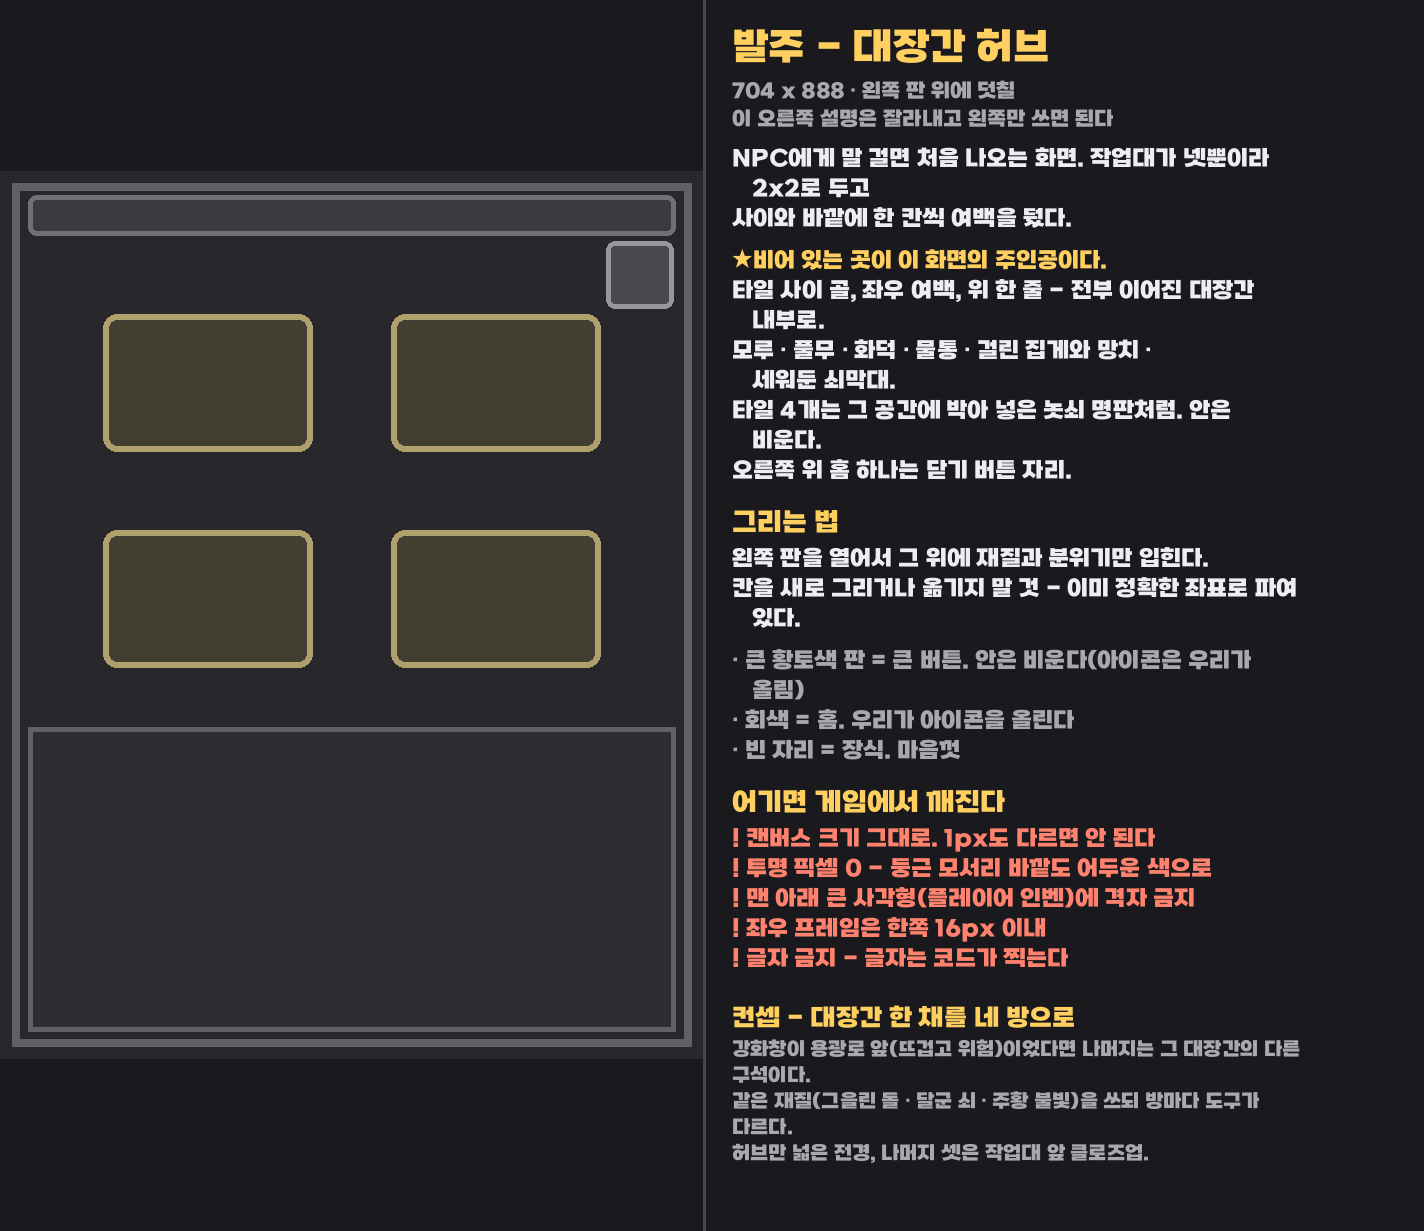
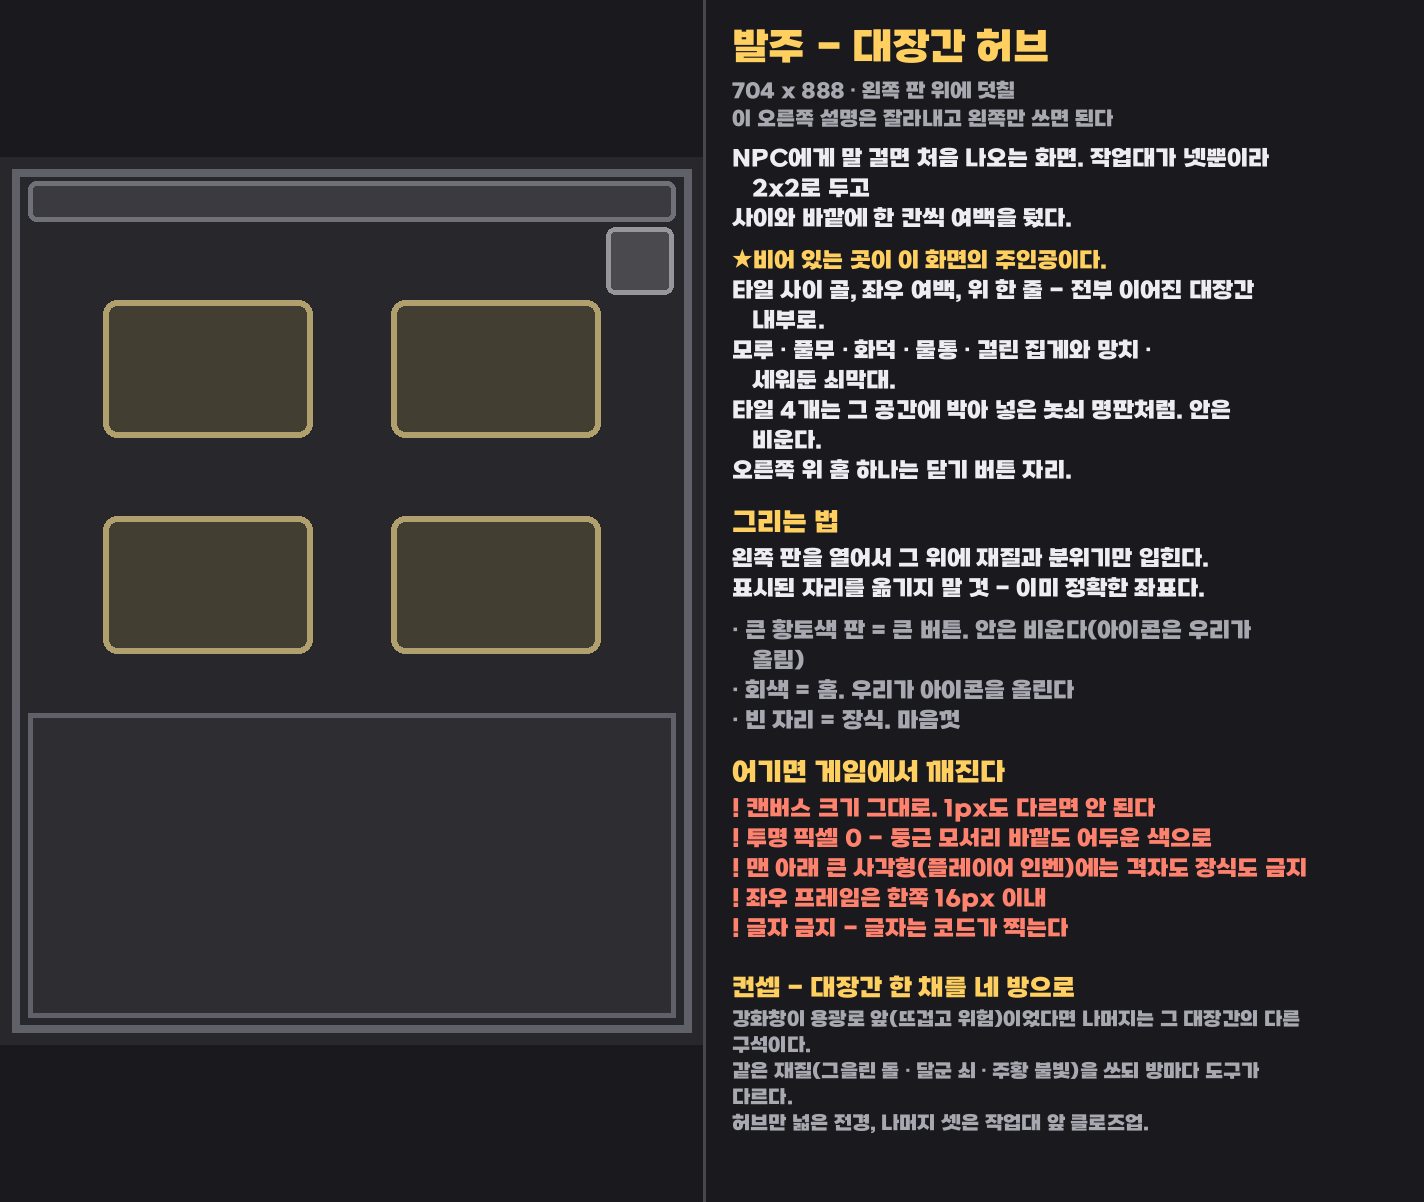
NPC 대화창 발주서 — BetterHud 판이라 규칙이 다르다
상자 창 배경은 제목 글리프라 176 GUI px 안에서 놀지만, 대화창은 BetterHud 가 화면에
직접 얹는 그림이다. 그린 크기가 곧 화면 픽셀이고, 글리프 아틀라스 상한(160) 때문에
110px 짜리 네 조각으로 잘라 쓴다 — 그래서 440 이 폭 상한이고 조각 경계에 큰 장식을
걸치면 이음매가 티 난다. 뼈대판에 그 경계를 점선으로 박았다.

초상화·이름표·대사 좌표는 ops/prod/betterhud/gen_hud_sizes.py 의 DIALOGUE 가 권위다.
여기서는 그 값을 그림으로 보여주기만 한다(두 곳에 적으면 어긋난다).

make_order_sheets: '캔버스 1px도 다르면 안 된다'·'투명 픽셀 0' 은 상자 창 전제라
화면 종류별 주의문(HARD)으로 내렸다 — 대화창은 4배본에 그려도 되고 배경도 투명이 맞다.

diff --git a/gui-forge/make_order_sheets.py b/gui-forge/make_order_sheets.py
@@ -27,24 +27,30 @@ BG, INK, DIM, HI, WARN = (26, 26, 30), (238, 238, 242), (168, 168, 176), (255, 2
 COMMON = [
     ("t", "그리는 법"),
     ("p", "왼쪽 판을 열어서 그 위에 재질과 분위기만 입힌다."),
-    ("p", "칸을 새로 그리거나 옮기지 말 것 - 이미 정확한 좌표로 파여 있다."),
+    ("p", "표시된 자리를 옮기지 말 것 - 이미 정확한 좌표다."),
     ("s", ""),
     ("legend", ""),          # 그 화면에 실제로 있는 역할만 자동으로 채운다
     ("s", ""),
     ("t", "어기면 게임에서 깨진다"),
-    ("w", "캔버스 크기 그대로. 1px도 다르면 안 된다"),
-    ("w", "투명 픽셀 0 - 둥근 모서리 바깥도 어두운 색으로"),
     ("hard", ""),            # 화면 종류별 주의문 (아래 HARD)
     ("w", "글자 금지 - 글자는 코드가 찍는다"),
 ]
 
 # 상자 창(우리가 띄우는 GUI)과 바닐라 인벤토리는 지키는 게 다르다.
 HARD = {
-    "chest": [("w", "맨 아래 큰 사각형(플레이어 인벤)에 격자 금지"),
+    "chest": [("w", "캔버스 크기 그대로. 1px도 다르면 안 된다"),
+              ("w", "투명 픽셀 0 - 둥근 모서리 바깥도 어두운 색으로"),
+              ("w", "맨 아래 큰 사각형(플레이어 인벤)에는 격자도 장식도 금지"),
               ("w", "좌우 프레임은 한쪽 16px 이내")],
-    "inventory": [("w", "칸을 옮기거나 크기를 바꾸지 말 것 - 좌표가 코드에 박혀 있다"),
+    "inventory": [("w", "캔버스 크기 그대로. 1px도 다르면 안 된다"),
+                  ("w", "투명 픽셀 0 - 둥근 모서리 바깥도 어두운 색으로"),
+                  ("w", "칸을 옮기거나 크기를 바꾸지 말 것 - 좌표가 코드에 박혀 있다"),
                   ("w", "왼쪽 테두리는 28px 이내 (방어구 칸이 바로 붙어 있다)"),
                   ("w", "창 밖(오른쪽·아래 어두운 부분)으로 그림이 넘어가면 안 된다")],
+    "dialogue": [("w", "가로세로 비율 5.5:1 (440x80) 을 지킬 것"),
+                 ("w", "투명 배경 허용 - 판 바깥은 비워도 된다(화면에 얹히는 그림이라)"),
+                 ("w", "초상화·이름표·대사 자리에 그림을 채우지 말 것"),
+                 ("w", "110px 경계에 큰 장식을 걸치지 말 것")],
 }
 
 SHEETS = {
@@ -175,6 +181,23 @@ SHEETS = {
         ("p", "목록 아래 여백을 지도 펼친 책상처럼 채워 달라 - 해도, 자, 조개 몇 개."),
         ("p", "그래도 종이·금박은 다른 속장과 같은 것으로."),
     ]),
+    "dialogue": ("NPC 대화창", [
+        ("p", "NPC에게 말 걸면 화면 아래에 뜨는 창. 상자 GUI가 아니라 BetterHud 가"),
+        ("p", "화면에 직접 얹는 그림이라, 그린 크기가 곧 화면 픽셀이다."),
+        ("p", "최종 440x80. 왼쪽 판은 4배 확대본이니 여기 덧칠하면 우리가 줄인다."),
+        ("s", ""),
+        ("hi", "★파랑=초상화 · 노랑=이름표 · 초록=대사. 셋 다 코드가 얹는다."),
+        ("p", "그 자리는 파 두고 비운다 - 액자와 홈만 그리고 내용은 넣지 말 것."),
+        ("p", "이름표는 판 아래로 8px 삐져나온다. 거기 걸리는 장식은 잘려 보인다."),
+        ("s", ""),
+        ("hi", "★110px 마다 세로로 잘린다(빨간 점선)."),
+        ("p", "네 조각으로 쪼개 글리프로 굽기 때문이다. 경계에 딱 걸치는 큰 장식"),
+        ("p", "(못·경첩·문양)은 이음매가 티 난다 - 조각 안쪽에 두거나 가로로 연속되게."),
+        ("s", ""),
+        ("hi", "★대사가 주인공이다."),
+        ("p", "오른쪽 큰 면은 읽는 자리다. 무늬를 넣더라도 글자를 방해하지 않게"),
+        ("p", "아주 옅게. 왼쪽 초상화 쪽은 반대로 무겁게 - 액자·장식은 거기 몰아준다."),
+    ]),
     "enhance": ("낚싯대 강화", [("p", "이미 납품 완료 - 만듦새·색의 기준이 되는 화면이다.")]),
 }
 
@@ -201,10 +224,17 @@ THEME_DEX = ("컨셉 - 항해일지 한 권",
              "인벤토리(항해사의 장비함)와 같은 궤짝에 들어 있는 책처럼 -",
              "나무·놋쇠 대신 종이·가죽이지만 색온도는 같게 맞춘다.",
              "★어둡되 검은 여백은 금지. 재질이 보이는 어둠으로.")
+THEME_NPC = ("컨셉 - 뱃사람의 게시판",
+             "인벤토리(궤짝)·도감(항해일지)과 한 세트다. 같은 나무·놋쇠·양피지.",
+             "초상화 쪽은 벽에 박은 놋쇠 액자, 대사 쪽은 거기 압정으로 눌러 붙인 쪽지.",
+             "말하는 사람이 먼저 보이고 그다음 글이 읽히면 성공.",
+             "★화면 아래 가운데에 늘 떠 있는 판이다 - 시끄러우면 금방 질린다.")
+
 THEMES = {"iceshop": THEME_ICE, "skillhub": THEME_SKILL, "skilltree": THEME_SKILL,
           "inventory": THEME_INV,
           "dexmain": THEME_DEX, "dextab": THEME_DEX,
-          "dexfish": THEME_DEX, "dexisland": THEME_DEX}
+          "dexfish": THEME_DEX, "dexisland": THEME_DEX,
+          "dialogue": THEME_NPC}
 
 # 재작업 시트용 - 오른쪽 설명판 아래에 「이 그림 기준」으로 축소해 붙인다.
 # 받은 그림을 말로만 가리키면 못 찾는다(발주서/그림 분리 사고와 같은 이유).
@@ -229,6 +259,10 @@ LEGEND = {
 
 
 def legend_for(name):
+    if name == "dialogue":
+        return [("k", "파랑 = 초상화 · 노랑 = 이름표 · 초록 = 대사"),
+                ("k", "빨간 점선 = 110px 조각 경계"),
+                ("k", "그 밖 = 장식. 마음껏")]
     if name not in L.PAGES:          # 상자 창이 아닌 화면(바닐라 인벤토리 등)
         return [("k", "회색 = 아이템이 들어가는 칸. 안은 비운다"),
                 ("k", "파랑 = 플레이어 3D 모델 자리 · 빨강 = 바닐라 버튼 자리"),
@@ -245,7 +279,7 @@ def build(name):
     plate = Image.open(plate_path).convert("RGBA")
     lines = 0
     sections = body + [("s", "")] + COMMON
-    hard = HARD["inventory" if name == "inventory" else "chest"]
+    hard = HARD.get(name, HARD["chest"])
     sections = [x for k, t in sections
                 for x in (legend_for(name) if k == "legend" else hard if k == "hard" else [(k, t)])]
     for kind, text in sections:

diff --git a/gui-forge/make_dialogue_layout.py b/gui-forge/make_dialogue_layout.py
@@ -1,0 +1,90 @@
+#!/usr/bin/env python3
+"""NPC 대화창 뼈대판 — BetterHud 하단 오버레이라 상자 창과 규칙이 다르다.
+
+## 상자 창과 다른 점
+상자 창 배경은 제목에 심는 글리프라 176 GUI px 안에서 논다. 대화창은 **BetterHud 가
+화면에 직접 얹는 이미지**다. 그래서:
+
+  · 최종 크기가 곧 화면 픽셀이다. 440x80 으로 그리면 화면에 440x80 으로 뜬다.
+  · 판은 **110px 짜리 네 조각**으로 잘라 쓴다. 글리프 아틀라스가 한 조각 160px 까지라,
+    가장 큰 단계(1.40배)에서 110x1.4=154 로 아슬아슬하게 들어간다. 440 이 상한이다.
+  · 초상화·이름표·대사는 판 위에 따로 얹힌다. 판에는 **그 자리만 파 두고 내용은 비운다.**
+
+## 좌표 (판 왼쪽 위 = 0,0)
+ops/prod/betterhud/gen_hud_sizes.py 의 DIALOGUE 에서 그대로 가져온다 — 거기가 권위다.
+이 파일은 그 숫자를 그림으로 보여줄 뿐이다.
+
+산출: src/dialogue/_template.png (4배 확대본 — 발주는 여기에 덧칠하고 우리가 줄인다)
+"""
+import os
+
+from PIL import Image, ImageDraw, ImageFont
+
+HERE = os.path.dirname(os.path.abspath(__file__))
+RP = os.path.expanduser("~/development/barkan-resourcepack")
+FONT_TTF = os.path.join(RP, "assets/barkan/font/aggro_bold.ttf")
+
+PANEL_W, PANEL_H = 440, 80
+SLICE_W = 110
+Z = 4                                   # 뼈대판만 4배로 크게 — 최종 납품은 440x80 으로 줄인다
+
+# gen_hud_sizes.py DIALOGUE 와 같은 값
+PORTRAIT = (35, 10, 128 * 0.40, 154 * 0.40)     # x, y, w, h
+NAMEPLATE = (9, 62, 110 * 0.8, 32 * 0.8)
+LINE = (122, 10, 230, 3 * 15)                    # x, y, 최대폭, 3줄 높이
+NAME = (26, 68)
+
+BG = (30, 30, 36, 255)
+PLATE = (52, 54, 62, 255)
+EDGE = (188, 190, 200, 255)
+CUT = (255, 150, 130, 210)
+INK = (235, 236, 244, 255)
+DIM = (168, 170, 180, 255)
+
+
+def font(px):
+    try:
+        return ImageFont.truetype(FONT_TTF, px)
+    except Exception:
+        return ImageFont.load_default()
+
+
+def region(d, box, color, label, fs, dash=False):
+    x, y, w, h = [v * Z for v in box]
+    d.rectangle([x, y, x + w - 1, y + h - 1], outline=color, width=3)
+    d.text((x + 6, y + 6), label, font=fs, fill=color)
+
+
+def main():
+    W, H = PANEL_W * Z, PANEL_H * Z
+    im = Image.new("RGBA", (W, H + 60), BG)
+    d = ImageDraw.Draw(im, "RGBA")
+    fs, fm = font(18), font(22)
+
+    d.rectangle([0, 0, W - 1, H - 1], fill=PLATE, outline=EDGE, width=4)
+
+    # 조각 경계 — 여기서 잘린다. 경계에 딱 걸치는 장식은 티가 난다.
+    for i in range(1, 4):
+        x = SLICE_W * i * Z
+        for y in range(0, H, 24):
+            d.line([x, y, x, y + 12], fill=CUT, width=3)
+    d.text((SLICE_W * Z + 8, H - 30), "↑ 110px 마다 잘린다 (조각 4장)", font=fs, fill=CUT)
+
+    region(d, PORTRAIT, (120, 200, 255, 255), "초상화가 얹힌다", fs)
+    region(d, NAMEPLATE, (255, 210, 120, 255), "이름표가 얹힌다 (판 아래로 8px 삐져나옴)", fs)
+    region(d, LINE, (140, 235, 160, 255), "대사 3줄", fs)
+    d.ellipse([NAME[0] * Z - 5, NAME[1] * Z - 5, NAME[0] * Z + 5, NAME[1] * Z + 5],
+              fill=(255, 210, 120, 255))
+
+    d.text((8, H + 8), f"최종 {PANEL_W} x {PANEL_H} (이 판은 {Z}배 확대본)", font=fm, fill=INK)
+    d.text((8, H + 34), "초상화·이름표·글자는 코드가 얹는다. 자리만 파고 내용은 비울 것",
+           font=fs, fill=DIM)
+
+    out = os.path.join(HERE, "src", "dialogue")
+    os.makedirs(out, exist_ok=True)
+    im.save(os.path.join(out, "_template.png"))
+    print(f"  dialogue {W}x{H + 60} (최종 {PANEL_W}x{PANEL_H}) · 조각 {PANEL_W // SLICE_W}장")
+
+
+if __name__ == "__main__":
+    main()
